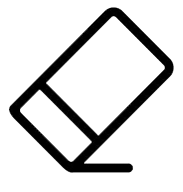
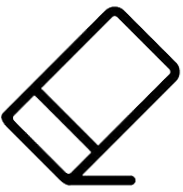
chore(CLEAN) deletes unnecesssary files in public folder

diff --git a/FrontEnd/src/CombinedCanvas.js b/FrontEnd/src/CombinedCanvas.js
@@ -250,7 +250,7 @@ const CombinedCanvas = () => {
           </PngButton>
           <PngButton onClick={() => setColor("white")}>
             <img
-              src="/images/eraser3.png"
+              src="/images/eraser.png"
               style={{ width: "100%" }}
               alt="eraser"
             />
